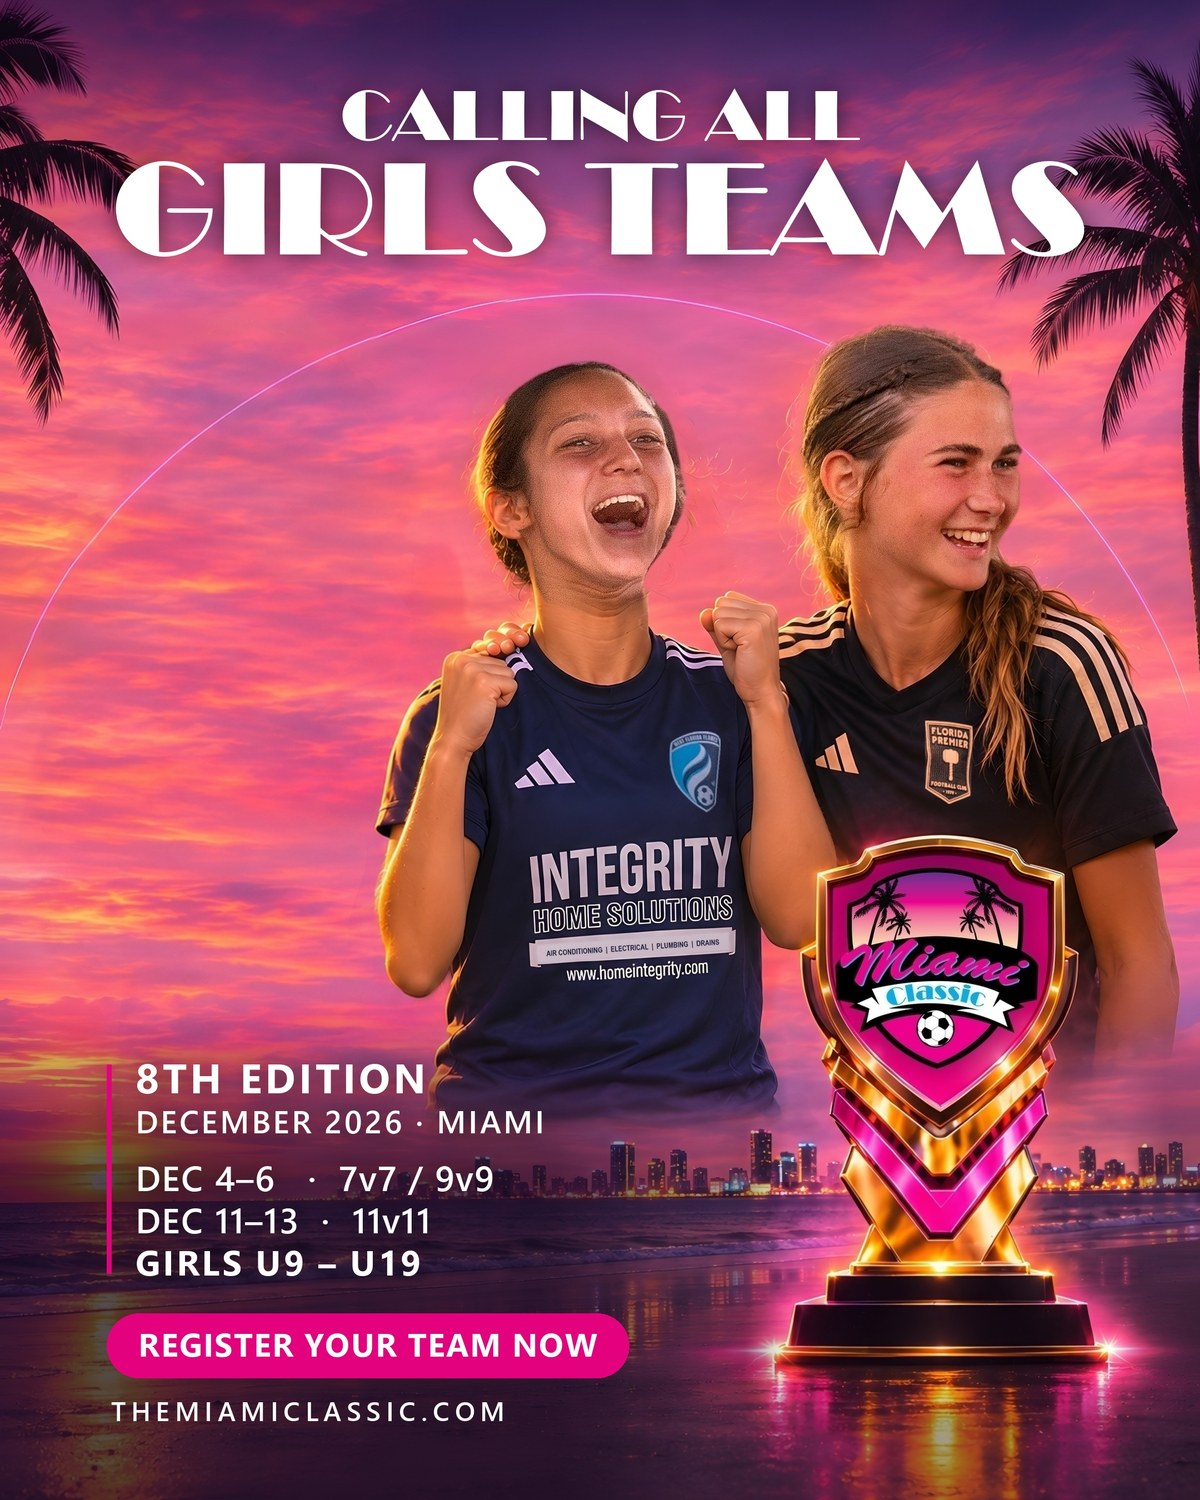
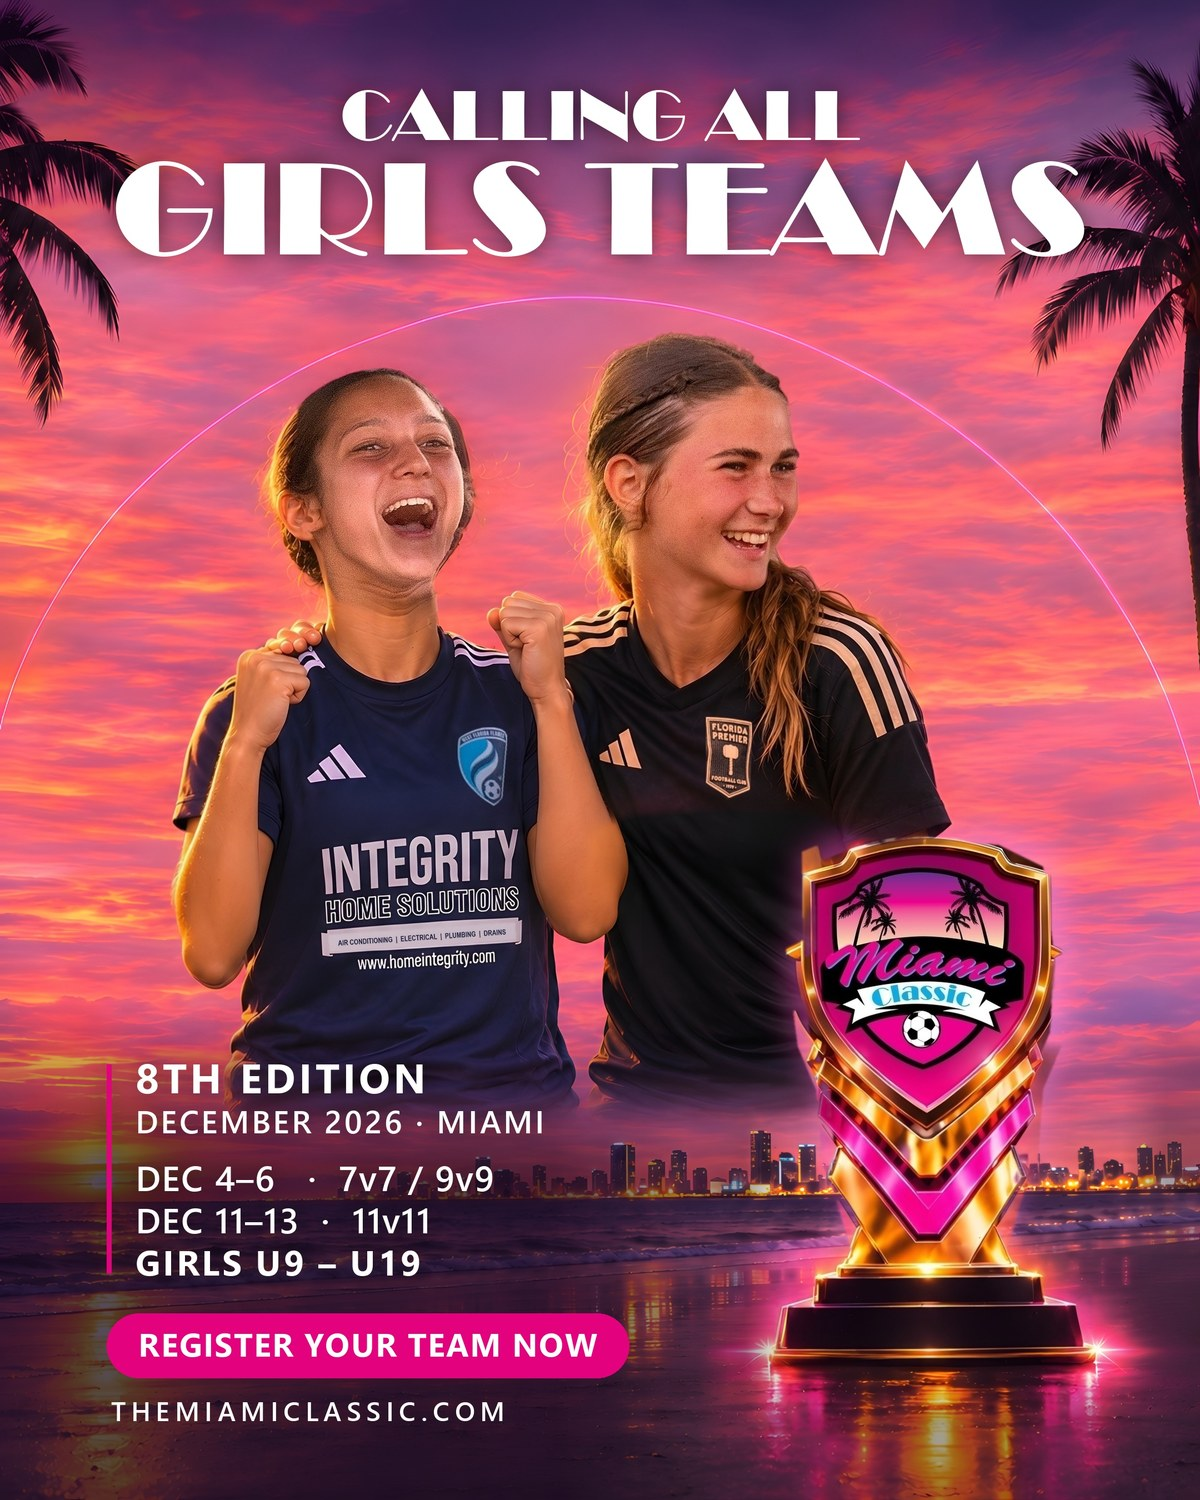
Cabecera: 2 niñas centradas

diff --git a/correo_girls.html b/correo_girls.html
@@ -7,14 +7,14 @@
 <meta name="robots" content="noindex, nofollow">
 </head>
 <body style="margin:0;padding:0;background:#0d0a24;">
-<!-- 17-11-2026 · Correo "Calling all girls teams" (Constant Contact). Cabecera = post F_PLAYA_V5_DOS (18-11: 2 niñas de equipos distintos); cierre = foto REAL (MC_Foto_017).
+<!-- 17-11-2026 · Correo "Calling all girls teams" (Constant Contact). Cabecera = post F_PLAYA_V6_DOS_CENTRADAS (18-11: 2 niñas de equipos distintos, centradas); cierre = foto REAL (MC_Foto_017).
      Al montarlo en CC: subir mc_girls_correo.jpg y mc_girls_foto_real.jpg a la librería y cambiar los src. -->
 <div style="display:none;max-height:0;overflow:hidden;opacity:0;color:#0d0a24;">Girls U9–U19 · Dec 4–6 &amp; Dec 11–13 in Miami. Register your team now.</div>
 <table role="presentation" width="100%" cellpadding="0" cellspacing="0" border="0" style="background:#0d0a24;">
   <tr><td align="center" style="padding:0;">
     <table role="presentation" width="600" cellpadding="0" cellspacing="0" border="0" style="width:100%;max-width:600px;background:#151036;">
       <tr><td style="padding:0;">
-        <a href="https://www.themiamiclassic.com/" target="_blank"><img src="mc_girls_correo.jpg?v=5" width="600" alt="Calling all girls teams · The Miami Classic 2026 · December 4–6 and 11–13 · Girls U9–U19" style="display:block;width:100%;max-width:600px;height:auto;border:0;"></a>
+        <a href="https://www.themiamiclassic.com/" target="_blank"><img src="mc_girls_correo.jpg?v=6" width="600" alt="Calling all girls teams · The Miami Classic 2026 · December 4–6 and 11–13 · Girls U9–U19" style="display:block;width:100%;max-width:600px;height:auto;border:0;"></a>
       </td></tr>
       <tr><td style="padding:32px 34px 6px 34px;font-family:Arial,Helvetica,sans-serif;color:#ffffff;">
         <p style="margin:0 0 14px 0;font-size:24px;line-height:30px;font-weight:bold;letter-spacing:.5px;">Calling all girls teams!</p>
